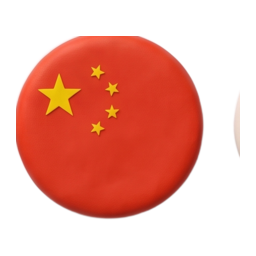
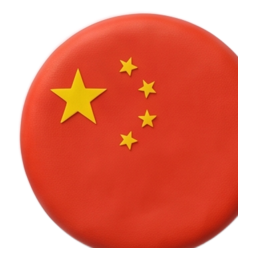
fix(brand): big centered language flags + waveform alignment
- LanguageCard restructured: the flag is now the hero (96pt, ~3× bigger),
  centered, with the selection check as a badge on its corner and the name
  below. Grid columns widened to suit.
- Re-sliced the flag roundels on their true centers (they weren't on the cell
  grid) so they're clean full circles — no neighbor bleed / cut-off at the
  larger size.
- Vibe Coding "How it sounds": the clay waveform now vertically centers with
  the row text.

diff --git a/Sources/Talkie/SettingsView.swift b/Sources/Talkie/SettingsView.swift
@@ -383,10 +383,7 @@ private struct SettingsHome: View {
                                         subtitle: permissions.allGranted ? "All granted" : "Action needed",
                                         badge: !permissions.allGranted, route: .permissions)
                     }
-                    .background(Theme.surface)
-                    .clipShape(RoundedRectangle(cornerRadius: Theme.Radius.card, style: .continuous))
-                    .shadow(color: .black.opacity(0.05), radius: 2, x: 0, y: 1)
-                    .shadow(color: .black.opacity(0.07), radius: 20, x: 0, y: 10)
+                    .talkieSurface()
                 }
                 .padding(28)
                 .frame(maxWidth: .infinity, alignment: .leading)
@@ -505,14 +502,9 @@ private struct SettingsCard<Content: View>: View {
     var body: some View {
         VStack(alignment: .leading, spacing: 9) {
             if let header { Eyebrow(text: header).padding(.horizontal, 4) }
-            VStack(spacing: 0) { content }
+            VStack(alignment: .leading, spacing: 0) { content }
                 .frame(maxWidth: .infinity, alignment: .leading)
-                .background(
-                    RoundedRectangle(cornerRadius: Theme.Radius.card, style: .continuous)
-                        .fill(Theme.surface)
-                )
-                .shadow(color: .black.opacity(0.05), radius: 2, x: 0, y: 1)
-                .shadow(color: .black.opacity(0.07), radius: 20, x: 0, y: 10)
+                .talkieSurface()
             if let footer {
                 Text(footer).font(.callout).foregroundStyle(Theme.inkTertiary)
                     .fixedSize(horizontal: false, vertical: true)
@@ -551,19 +543,22 @@ private struct SettingsRow<Trailing: View>: View {
             Spacer(minLength: 12)
             trailing
         }
+        .frame(maxWidth: .infinity)
         .padding(.horizontal, 16)
         .padding(.vertical, 11)
     }
 }
 
-/// A switch row on a card surface — the brand-tinted toggle the subpages use.
+/// A switch row on a card surface — title/subtitle left, brand-tinted switch
+/// right. Built as an explicit HStack (not a labelled `Toggle`) so the row
+/// always spans the card width instead of hugging and centering.
 private struct SettingsToggleRow: View {
     let title: String
     var subtitle: String? = nil
     @Binding var isOn: Bool
 
     var body: some View {
-        Toggle(isOn: $isOn) {
+        HStack(spacing: 12) {
             VStack(alignment: .leading, spacing: 2) {
                 Text(title).font(.talkieHeading(14, weight: .medium)).foregroundStyle(Theme.ink)
                 if let subtitle {
@@ -572,9 +567,13 @@ private struct SettingsToggleRow: View {
                         .fixedSize(horizontal: false, vertical: true)
                 }
             }
+            Spacer(minLength: 12)
+            Toggle("", isOn: $isOn)
+                .labelsHidden()
+                .toggleStyle(.switch)
+                .tint(Theme.coral)
         }
-        .toggleStyle(.switch)
-        .tint(Theme.coral)
+        .frame(maxWidth: .infinity)
         .padding(.horizontal, 16)
         .padding(.vertical, 11)
     }
@@ -693,6 +692,7 @@ private struct CleanupSettings: View {
                             .font(.callout).foregroundStyle(Theme.inkSecondary)
                             .fixedSize(horizontal: false, vertical: true)
                     }
+                    .frame(maxWidth: .infinity, alignment: .leading)
                     .padding(.horizontal, 16).padding(.vertical, 11)
                 }
                 SettingsDivider(leadingInset: 0)
@@ -717,7 +717,7 @@ private struct CleanupSettings: View {
 private struct LanguageSettings: View {
     @ObservedObject var settings: AppSettings
 
-    private let columns = [GridItem(.adaptive(minimum: 158, maximum: 230), spacing: 12)]
+    private let columns = [GridItem(.adaptive(minimum: 176, maximum: 220), spacing: 12)]
 
     /// Toggle a language, keeping at least one always selected.
     private func toggle(_ id: String) {
@@ -767,21 +767,16 @@ private struct LanguageCard: View {
 
     var body: some View {
         Button(action: action) {
-            VStack(alignment: .leading, spacing: 11) {
-                HStack(alignment: .top) {
-                    Group {
-                        if let region = Locale(identifier: language.id).region?.identifier,
-                           let img = Brand.image("Flag\(region)") {
-                            Image(nsImage: img).resizable().scaledToFit().frame(width: 32, height: 32)
-                        } else {
-                            Text(language.flag).font(.system(size: 30))
-                        }
+            VStack(spacing: 13) {
+                // The flag is the hero — large, centered, with the selection check
+                // as a badge on its corner.
+                flag
+                    .frame(width: 96, height: 96)
+                    .overlay(alignment: .bottomTrailing) {
+                        if selected { checkBadge.offset(x: 5, y: 5) }
                     }
-                    Spacer(minLength: 8)
-                    checkmark
-                }
-                VStack(alignment: .leading, spacing: 1) {
-                    Text(language.shortName)
+                VStack(spacing: 1) {
+                    Text(language.gridTitle)
                         .font(.talkieHeading(14.5, weight: .semibold))
                         .foregroundStyle(Theme.ink)
                         .lineLimit(1)
@@ -791,8 +786,9 @@ private struct LanguageCard: View {
                         .lineLimit(1)
                 }
             }
-            .frame(maxWidth: .infinity, alignment: .leading)
-            .padding(14)
+            .frame(maxWidth: .infinity)
+            .padding(.vertical, 18)
+            .padding(.horizontal, 12)
             .background(
                 RoundedRectangle(cornerRadius: Theme.Radius.control, style: .continuous)
                     .fill(selected ? Theme.coralWash : Theme.surface)
@@ -801,8 +797,8 @@ private struct LanguageCard: View {
                 RoundedRectangle(cornerRadius: Theme.Radius.control, style: .continuous)
                     .strokeBorder(selected ? Theme.coral : Color.clear, lineWidth: 2)
             )
-            .shadow(color: .black.opacity(selected ? 0 : 0.05), radius: 2, x: 0, y: 1)
-            .shadow(color: .black.opacity(selected ? 0 : 0.06), radius: 14, x: 0, y: 7)
+            .shadow(color: .black.opacity(0.05), radius: 2, x: 0, y: 1)
+            .shadow(color: .black.opacity(0.06), radius: 14, x: 0, y: 7)
             .scaleEffect(hovering ? 1.015 : 1)
             .animation(.easeOut(duration: 0.12), value: hovering)
             .animation(.easeOut(duration: 0.14), value: selected)
@@ -813,22 +809,25 @@ private struct LanguageCard: View {
                      : (selected ? "Tap to remove" : "Tap to add"))
     }
 
-    private var checkmark: some View {
-        ZStack {
-            Circle()
-                .fill(selected ? Theme.coral : Color.clear)
-                .overlay(
-                    Circle().strokeBorder(
-                        selected ? Color.clear : Theme.inkTertiary.opacity(0.4),
-                        lineWidth: 1.5
-                    )
-                )
-                .frame(width: 22, height: 22)
-            if selected {
-                Image(systemName: "checkmark")
-                    .font(.system(size: 11, weight: .bold))
-                    .foregroundStyle(.white)
+    private var flag: some View {
+        Group {
+            if let region = Locale(identifier: language.id).region?.identifier,
+               let img = Brand.image("Flag\(region)") {
+                Image(nsImage: img).resizable().scaledToFit()
+            } else {
+                Text(language.flag).font(.system(size: 64))
             }
+        }
+    }
+
+    private var checkBadge: some View {
+        ZStack {
+            Circle().fill(Theme.coral)
+                .overlay(Circle().strokeBorder(selected ? Theme.coralWash : Theme.surface, lineWidth: 3))
+                .frame(width: 26, height: 26)
+            Image(systemName: "checkmark")
+                .font(.system(size: 12, weight: .bold))
+                .foregroundStyle(.white)
         }
     }
 }
@@ -1024,42 +1023,36 @@ private struct PermissionsSettings: View {
     let onRetryHotKey: () -> Void
 
     var body: some View {
-        VStack(alignment: .leading, spacing: 16) {
-            PageHeader(title: "Permissions",
-                       subtitle: "Talkie needs three permissions to work — all local.")
-
-            PermissionRow(
-                title: "Microphone",
-                detail: "Capture your voice while you dictate.",
-                granted: permissions.microphone,
-                action: { Task { await permissions.requestMicrophone() } },
-                openSettings: permissions.openMicrophoneSettings
-            )
-
-            PermissionRow(
-                title: "Input Monitoring",
-                detail: "Detect your dictation key anywhere in the system.",
-                granted: permissions.inputMonitoring,
-                action: {
-                    permissions.requestInputMonitoring()
-                    onRetryHotKey()
-                },
-                openSettings: permissions.openInputMonitoringSettings
-            )
-
-            PermissionRow(
-                title: "Accessibility",
-                detail: "Paste the transcribed text into the app you're using.",
-                granted: permissions.accessibility,
-                action: permissions.promptAccessibility,
-                openSettings: permissions.openAccessibilitySettings
-            )
-
-            Spacer()
-
-            Text("After granting Input Monitoring or Accessibility, you may need to quit and reopen Talkie for the change to take effect.")
-                .font(.caption)
-                .foregroundStyle(Theme.inkTertiary)
+        SubPage(title: "Permissions",
+                subtitle: "Talkie needs three permissions to work — all local.") {
+            SettingsCard(footer: "After granting Input Monitoring or Accessibility, you may need to quit and reopen Talkie for the change to take effect.") {
+                PermissionRow(
+                    title: "Microphone",
+                    detail: "Capture your voice while you dictate.",
+                    granted: permissions.microphone,
+                    action: { Task { await permissions.requestMicrophone() } },
+                    openSettings: permissions.openMicrophoneSettings
+                )
+                SettingsDivider()
+                PermissionRow(
+                    title: "Input Monitoring",
+                    detail: "Detect your dictation key anywhere in the system.",
+                    granted: permissions.inputMonitoring,
+                    action: {
+                        permissions.requestInputMonitoring()
+                        onRetryHotKey()
+                    },
+                    openSettings: permissions.openInputMonitoringSettings
+                )
+                SettingsDivider()
+                PermissionRow(
+                    title: "Accessibility",
+                    detail: "Paste the transcribed text into the app you're using.",
+                    granted: permissions.accessibility,
+                    action: permissions.promptAccessibility,
+                    openSettings: permissions.openAccessibilitySettings
+                )
+            }
 
             HStack {
                 Button("Re-check") { permissions.refresh() }
@@ -1074,8 +1067,8 @@ private struct PermissionsSettings: View {
                     }
                 }
             }
+            .padding(.horizontal, 4)
         }
-        .padding(28)
         .onAppear { permissions.refresh() }
     }
 
@@ -1104,13 +1097,15 @@ private struct PermissionRow: View {
                 Image(systemName: "exclamationmark.circle.fill")
                     .font(.system(size: 20))
                     .foregroundStyle(Theme.warning)
+                    .frame(width: 26)
             }
             VStack(alignment: .leading, spacing: 2) {
-                Text(title).font(.talkieHeading(14))
+                Text(title).font(.talkieHeading(14, weight: .medium))
                     .foregroundStyle(Theme.ink)
                 Text(detail).font(.callout).foregroundStyle(Theme.inkSecondary)
+                    .fixedSize(horizontal: false, vertical: true)
             }
-            Spacer()
+            Spacer(minLength: 12)
             if !granted {
                 VStack(spacing: 4) {
                     Button("Grant", action: action)
@@ -1120,6 +1115,8 @@ private struct PermissionRow: View {
                 }
             }
         }
-        .talkieCard(padding: 14)
+        .frame(maxWidth: .infinity)
+        .padding(.horizontal, 16)
+        .padding(.vertical, 12)
     }
 }

diff --git a/Sources/Talkie/VibeCodingView.swift b/Sources/Talkie/VibeCodingView.swift
@@ -167,8 +167,9 @@ private struct ExampleRow: View {
     let spoken: String
     let result: String
     var body: some View {
-        HStack(spacing: 10) {
-            ClayIcon(name: "IconWaveform", size: 18)
+        HStack(alignment: .center, spacing: 10) {
+            ClayIcon(name: "IconWaveform", size: 16)
+                .frame(width: 18, height: 18)
             Text(spoken)
                 .font(.talkieHeading(13, weight: .regular))
                 .foregroundStyle(Theme.inkSecondary)
